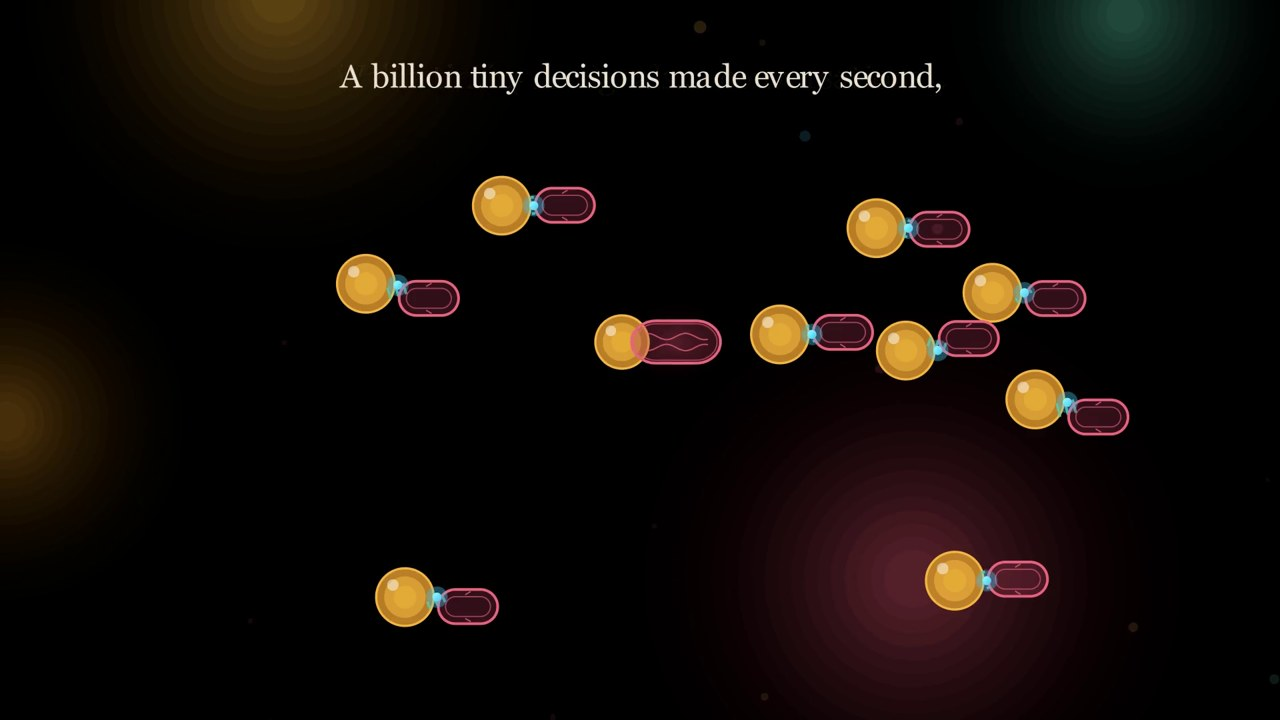
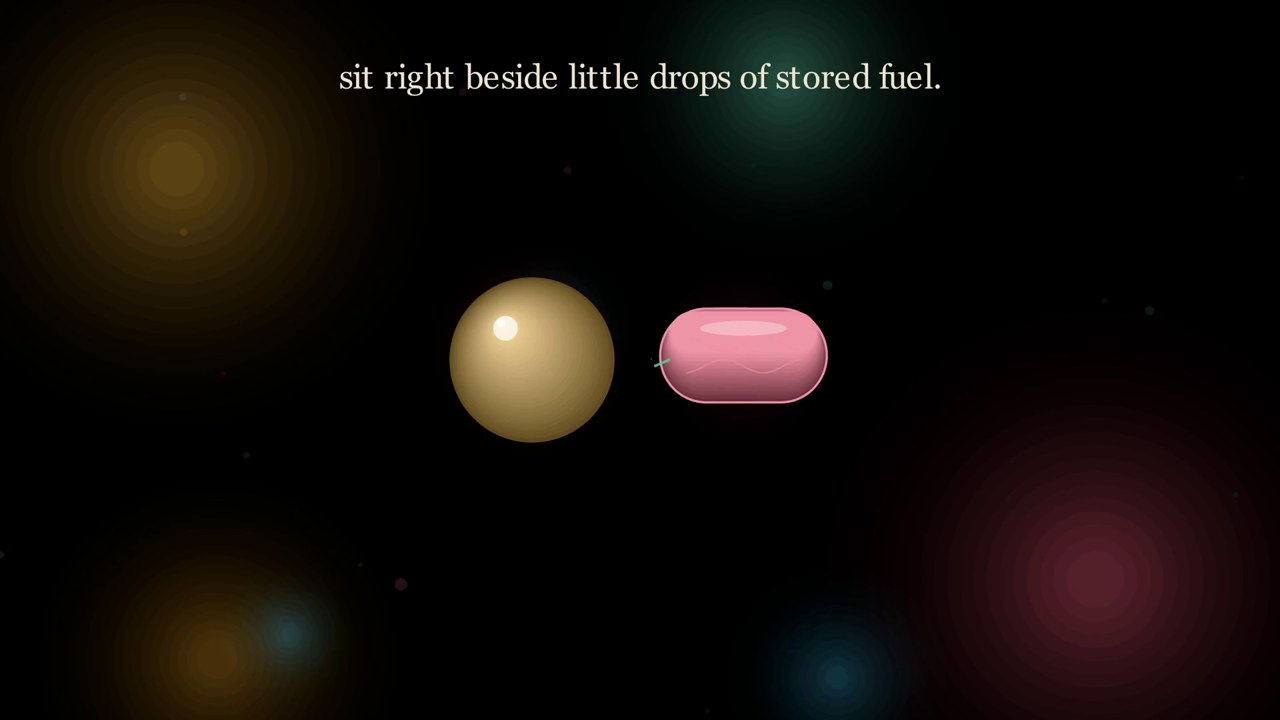
The Fat Knows When: 3D-style visuals + push-in transition
Give the piece dimensionality and more detail:
- lipid droplets are now shaded 3D spheres (dark rim -> lit centre offset
  toward a light source, specular highlights) instead of flat circles
- mitochondria are shaded, top-lit 3D capsules with a membrane rim, a
  specular streak, and cristae
- calcium ions are little 3D beads
- foreground depth-of-field bokeh over the layered nebulae
- a camera "push-in" transition at "Deep inside, where the engines run"
  (fly through the droplet, the interior emerges from depth) + a gentle
  tumble on the engine

Driven by the shared organelle helpers, so every scene picked up the 3D
look. Timing/vocal-sync untouched; 267s. Refresh thumbnail.

diff --git a/manim/scenes/the_fat_knows_when.py b/manim/scenes/the_fat_knows_when.py
@@ -135,55 +135,97 @@ def add_flicker(mob, amp=0.14, speed=9.0):
 # Cell-biology building blocks
 # --------------------------------------------------------------------------
 
+def sphere3d(radius, color, pos=ORIGIN, light=(-0.5, 0.6, 0), layers=26):
+    """A fake-3D sphere: opaque concentric fills shaded from a dark rim to a
+    bright centre that is offset toward a light source, plus a specular
+    highlight. Reads as a lit ball rather than a flat disc."""
+    lu = np.array(light, dtype=float)
+    lu = lu / (np.linalg.norm(lu) + 1e-9)
+    dark = interpolate_color(ManimColor(color), ManimColor("#080808"), 0.62)
+    lite = interpolate_color(ManimColor(color), WHITE, 0.5)
+    g = VGroup()
+    for i in range(layers):
+        frac = i / (layers - 1)                 # 0 rim .. 1 centre
+        r = radius * (1 - 0.98 * frac)
+        off = lu * radius * frac * 0.55          # highlight rides toward light
+        col = interpolate_color(dark, lite, frac ** 0.85)
+        g.add(Circle(radius=max(r, 0.006), color=col, fill_opacity=1,
+                     stroke_width=0).move_to(pos + off))
+    g.add(Circle(radius=radius * 0.15, color=WHITE, fill_opacity=0.75,
+                 stroke_width=0).move_to(pos + lu * radius * 0.5))
+    g.add(Circle(radius=radius * 0.05, color=WHITE, fill_opacity=0.9,
+                 stroke_width=0).move_to(pos + lu * radius * 0.58))
+    return g
+
+
+def wobble3d(mob, amp=0.05, speed=1.1):
+    """A slow horizontal stretch oscillation -- fakes tumbling in depth."""
+    mob.wb_t = random.uniform(0, TAU)
+    mob.wb_prev = 1.0
+
+    def upd(m, dt):
+        m.wb_t += dt
+        target = 1 + amp * np.sin(speed * m.wb_t)
+        m.stretch(target / m.wb_prev, 0)
+        m.wb_prev = target
+
+    mob.add_updater(upd)
+
+
 def lipid_droplet(radius=1.0, color=FAT, pos=ORIGIN, glow=True):
-    """A golden droplet of stored fat: oily body, inner sheen, highlight."""
+    """A golden 3D droplet of stored fat: shaded sphere + warm halo."""
     parts = VGroup()
     if glow:
         parts.add(soft_blob(pos, radius * 1.55, color, peak=0.06, layers=14))
-    body = Circle(radius=radius, color=FAT_DEEP, fill_opacity=0.92,
-                  stroke_color=color, stroke_width=2.5).move_to(pos)
-    sheen = Circle(radius=radius * 0.72, color=color, fill_opacity=0.55,
-                   stroke_width=0).move_to(pos)
-    core = Circle(radius=radius * 0.4, color=FIRE_HOT, fill_opacity=0.25,
-                  stroke_width=0).move_to(pos)
-    highlight = Circle(radius=radius * 0.2, color=WHITE, fill_opacity=0.5,
-                       stroke_width=0).move_to(pos + radius * 0.42 * (UP + LEFT))
-    parts.add(body, sheen, core, highlight)
+    parts.add(sphere3d(radius, color, pos=pos,
+                       layers=28 if radius > 0.5 else 14))
     return parts
 
 
 def mitochondrion(w=1.7, h=0.95, color=MITO, pos=ORIGIN, glow=True):
-    """A bean-shaped powerhouse: double membrane + wavy internal cristae."""
+    """A 3D-shaded powerhouse: a top-lit capsule (dark base -> lit crown),
+    a membrane rim, a specular streak, and wavy internal cristae."""
     parts = VGroup()
     if glow:
         parts.add(soft_blob(pos, max(w, h) * 0.75, color, peak=0.05, layers=12))
-    outer = RoundedRectangle(width=w, height=h, corner_radius=h / 2,
-                             stroke_color=color, stroke_width=3,
-                             fill_color=MITO_DEEP, fill_opacity=0.3).move_to(pos)
-    inner = RoundedRectangle(width=w - 0.16, height=h - 0.16,
-                             corner_radius=(h - 0.16) / 2, stroke_color=color,
-                             stroke_width=1.4, stroke_opacity=0.6,
-                             fill_opacity=0).move_to(pos)
-    cristae = VGroup()
+    dark = interpolate_color(ManimColor(color), ManimColor("#0a0a0a"), 0.58)
+    lite = interpolate_color(ManimColor(color), WHITE, 0.32)
+    L = 14
+    for i in range(L):
+        frac = i / (L - 1)
+        ww = w * (1 - 0.12 * frac)
+        hh = h * (1 - 0.55 * frac)
+        off = UP * h * frac * 0.24                # lit crown toward the top
+        col = interpolate_color(dark, lite, frac ** 0.9)
+        parts.add(RoundedRectangle(width=max(ww, 0.05), height=max(hh, 0.03),
+                                   corner_radius=max(hh, 0.03) / 2,
+                                   fill_color=col, fill_opacity=1,
+                                   stroke_width=0).move_to(pos + off))
+    parts.add(RoundedRectangle(width=w, height=h, corner_radius=h / 2,
+                               stroke_color=interpolate_color(ManimColor(color),
+                                                              WHITE, 0.3),
+                               stroke_width=2.5, fill_opacity=0).move_to(pos))
     span = w / 2 - 0.3
-    for k, yoff in enumerate((0.15, -0.15)):
-        pts = [pos + np.array([x, yoff + 0.085 * np.sin(x * 7 + k * PI), 0])
+    cristae = VGroup()
+    ccol = interpolate_color(ManimColor(color), WHITE, 0.28)
+    for k, yoff in enumerate((0.13, -0.12)):
+        pts = [pos + np.array([x, yoff + 0.075 * np.sin(x * 7 + k * PI), 0])
                for x in np.linspace(-span, span, 44)]
-        line = VMobject(stroke_color=color, stroke_width=1.5,
-                        stroke_opacity=0.75)
+        line = VMobject(stroke_color=ccol, stroke_width=1.5, stroke_opacity=0.7)
         line.set_points_smoothly(pts)
         cristae.add(line)
-    parts.add(outer, inner, cristae)
+    parts.add(cristae)
+    parts.add(Ellipse(width=w * 0.52, height=h * 0.16, color=WHITE,
+                      fill_opacity=0.33, stroke_width=0).move_to(pos + UP * h * 0.29))
     return parts
 
 
 def calcium_dot(pos=ORIGIN, r=0.075):
-    """A bright calcium ion with a soft halo."""
+    """A bright calcium ion: a small 3D bead with a soft halo."""
     halo = Circle(radius=r * 2.4, color=CA, fill_opacity=0.22,
                   stroke_width=0).move_to(pos)
-    core = Dot(radius=r, color=CA).move_to(pos)
-    core.set_sheen(0.3, UL)
-    return VGroup(halo, core)
+    ball = sphere3d(r, CA, pos=pos, layers=10)
+    return VGroup(halo, ball)
 
 
 def flame_shape(color, h=1.0):
@@ -316,7 +358,19 @@ class TheFatKnowsWhen(Scene):
 
             dot.add_updater(upd)
             motes.add(dot)
-        self.add(nebulae, motes)
+
+        # Foreground depth-of-field: big, very soft out-of-focus blobs that
+        # drift across close to the "lens", selling the sense of depth.
+        bokeh = VGroup()
+        for _ in range(5):
+            b = soft_blob([random.uniform(-7, 7), random.uniform(-4, 4), 0],
+                          random.uniform(0.9, 1.7),
+                          random.choice([FAT, MITO, CA]), peak=0.05, layers=16)
+            b.drift = np.array([random.uniform(-0.07, 0.07),
+                                random.uniform(-0.035, 0.035), 0])
+            b.add_updater(lambda m, dt: m.shift(m.drift * dt))
+            bokeh.add(b)
+        self.add(nebulae, motes, bokeh)
 
     # ----------------------------------------------------------------
     def title_and_savings(self):
@@ -391,16 +445,23 @@ class TheFatKnowsWhen(Scene):
 
     # ----------------------------------------------------------------
     def engines_and_fuel(self):
-        droplet = self.droplet
+        old = self.droplet
+        old.clear_updaters()
         cap = self.cap_text("Deep inside, where the engines run—", 29)
-        # Shrink the droplet to one of several, and reveal the engines beside it.
+        # Camera push-in: fly through the droplet's surface, then the cell
+        # interior emerges from depth.
         self.wait_until(48.0)
         cap = self.enter_cap(cap, FadeOut(self.droplet_keyhole),
-                             droplet.animate.scale(0.8).move_to(LEFT * 1.2),
+                             old.animate.scale(3.0).set_opacity(0.0),
                              run_time=2.0)
+        self.remove(old)
+        droplet = lipid_droplet(radius=0.92, pos=LEFT * 1.2)
+        add_breathe(droplet, amp=0.02, speed=0.8)
+        self.play_t(FadeIn(droplet, scale=0.3), run_time=0.8)
 
         mito = mitochondrion(w=1.9, h=1.05, pos=RIGHT * 1.6 + UP * 0.1)
         add_breathe(mito, amp=0.025, speed=1.1)
+        wobble3d(mito, amp=0.05, speed=0.9)
         self.wait_until(56.0)
         cap2 = self.cap_text("tiny powerhouses—mitochondria—", 29)
         cap = self.swap(cap, cap2, FadeIn(mito, scale=0.7), run_time=1.5)